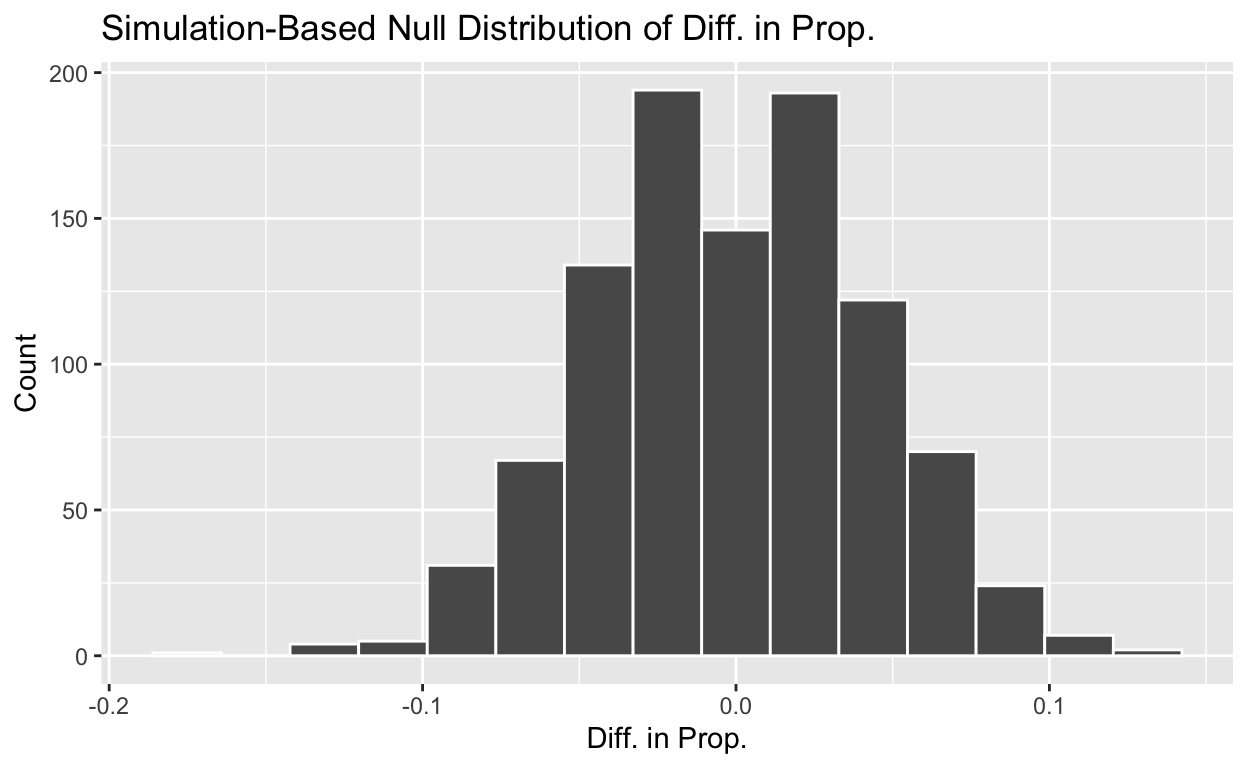
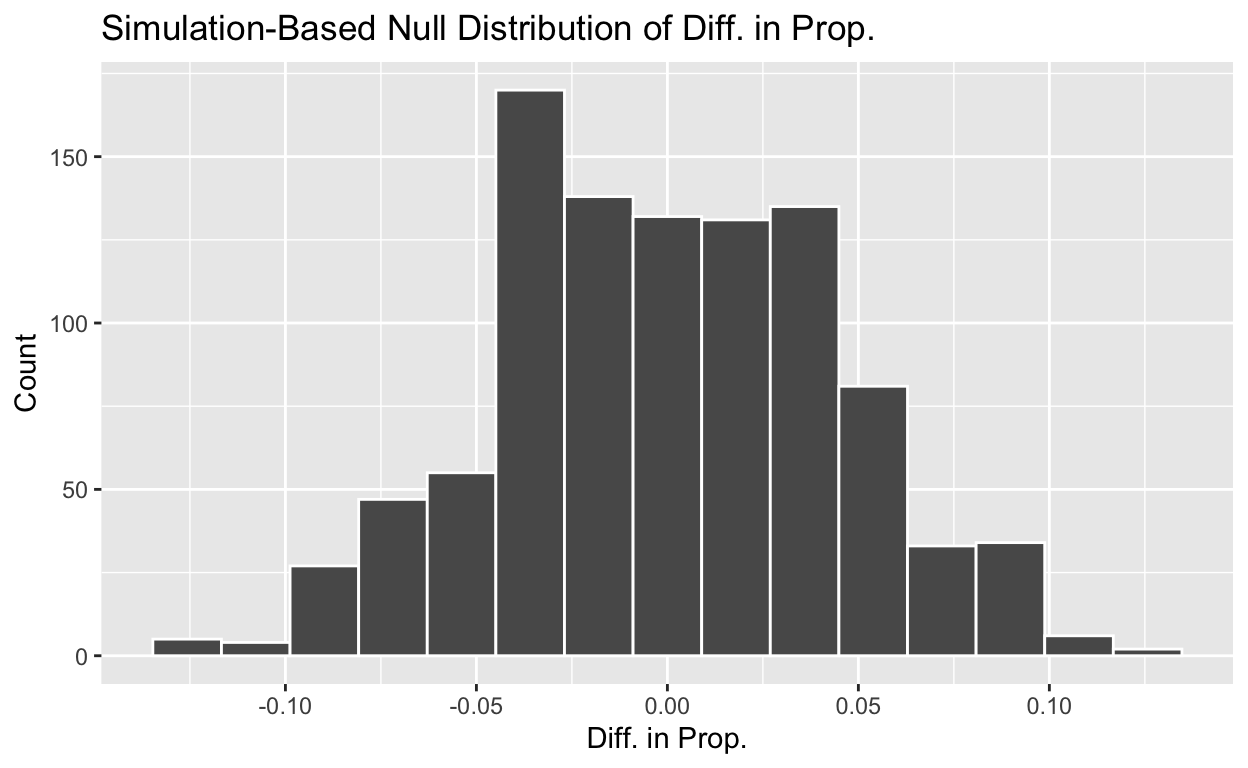
commit

diff --git a/index.html b/index.html
@@ -1519,10 +1519,10 @@ code span.wa { color: #5e5e5e; font-style: italic; } /* Warning */
 </div>
 
 <div class="d-article">
-<h3>Introduction</h3>
+<p>Introduction</p>
 <p>The research question I have set out to answer is whether or not the stance a Republican candidates takes on the results of the 2020 presidential election are related to their electoral success in the 2022 general elections. In other words, is there a statistically significant difference in the proportion of elected Republican candidates based on whether they denied or accepted the results of the 2020 presidential election. My hypothesis is that there is a statistically significant difference in the proportion of Republican candidates that are elected based on their stance on the results of the 2020 presidential election.</p>
 <p>After the 2022 general election, numerous news articles and political pundits talked about the role of denying or accepting the results of the 2020 presidential election on electoral success of a candidate. This question is interesting because the answer to this question could shed light on potential warnings for democracy. If denying the results of the 2020 presidential election turns out to be an influencing factor in electoral success it could encourage future candidates to reject results of fair elections, thereby threatening democracy as it increases misinformation and polarization.</p>
-<h3>Data Section</h3>
+<p>Data Section:</p>
 <p>I obtained most of the data in my imported data set from FiveThirtyEight’s Github repository (<a href="https://github.com/fivethirtyeight/data/tree/master/election-deniers" class="uri">https://github.com/fivethirtyeight/data/tree/master/election-deniers</a>). The key dependent and independent variables I will look at are ‘Won or Lost their Race’ and ‘Stance’. The independent variable is the stance a Republican candidate takes on the 2020 presidential election results. Those stances include “Fully denied”, “Raised questions”, “Accepted with reservations”, “Fully accepted”, “Avoided answering”, and “No comment” which are all self-explanatory. FiveThirtyEight includes the sources for the stances of candidates in the <code>Source</code> variable. This variable is measured through the public responses of these candidates, their actions, and their lack of response to FiveThirtyEight’s survey on their stances. I end up making this a binary variable by condensing these stances into two: Denied or Accepted the results of the 2020 presidential elections for my statistical analysis but I do recognize this is not ideal.</p>
 <p>The key dependent variable is ‘Won or Lost their Race’ and I manually did the research for all 500+ candidates with Ballotpedia. I looked up whether each candidate in the data set was elected or not in the 2022 general elections. I also did the same for ‘Dem or Rep State’ is measured with by what president the state went for in the 2020 presidential election. I used CNN’s 2020 presidential results (<a href="https://www.cnn.com/election/2020/results/president" class="uri">https://www.cnn.com/election/2020/results/president</a>) to find out what president each state went for in 2020. I also added ‘The FiveThirtyEight partisan lean of every state’ (<a href="https://fivethirtyeight.com/features/how-red-or-blue-is-your-state-your-congressional-district/#" class="uri">https://fivethirtyeight.com/features/how-red-or-blue-is-your-state-your-congressional-district/#</a>) as a variable to this data set and it is a continuous variable, with negative values indicating a democratic lean, the smaller the number the greater democratic leaning the state has. Positive values indicated a republican lean with greater numbers indicating a stronger republican lean. I added these variables manually because at the beginning I thought they would be useful for my analysis.</p>
 <p>This study is an observational study because a treatment was not administered, nor was a control group established. I ran a 2 sample permutation test to find whether the difference in proportion of elected Republican candidates was statistically significant based on their stance on the results of the 2020 election.</p>
@@ -1638,11 +1638,12 @@ code span.wa { color: #5e5e5e; font-style: italic; } /* Warning */
 <p><img src="index_files/figure-html5/Data%20Section%20Graphs:%20Summarizing%20the%20Dependent%20Variable-1.png" width="624" /></p>
 </div>
 <p>The results from the mosaic bar charts show a difference in the proportion of Republican election deniers candidates that were elected and not elected. In the elected category, there is a higher proportion of election deniers than in the not elected category which raises concerning signs.</p>
-<h5>2-sample permutation test</h5>
+<p>2-sample permutation test</p>
 <p>I ran a 2-sample permutation test in the chunk below to compare the proportion of Republican candidates in the 2022 general elections who denied versus accepted the results of the 2020 election and their electoral success in the 2022 general election. For the purpose of simplifying the categorical variable Stance, I made it a binary variable where if candidates fully denied they were categorized as having denied the results of the 2020 election and every other option was considered accepting because these candidates did not take action to mark the election as illegitimate even if they might have raised concerns, they overall accepted the results or at the very least did not act in a way or indicate that they would act in a way that would prevent the certification of valid election results.</p>
 <div class="layout-chunk" data-layout="l-body">
 <div class="sourceCode">
 <pre class="sourceCode r"><code class="sourceCode r"><span><span class='co'>#Hypothesis Test (2 Sample Permutation Test with Infer)</span></span>
+<span><span class='fu'><a href='https://rdrr.io/r/base/Random.html'>set.seed</a></span><span class='op'>(</span><span class='fl'>02138</span><span class='op'>)</span></span>
 <span></span>
 <span><span class='co'>#I created election_prop to find the proportion of Republican candidates elected based on their stance (Denied or Accepted) on the results of the 2020 presidential election.</span></span>
 <span><span class='va'>election_prop</span> <span class='op'>&lt;-</span> <span class='va'>election_data</span> <span class='op'>|&gt;</span></span>
@@ -1741,9 +1742,9 @@ code span.wa { color: #5e5e5e; font-style: italic; } /* Warning */
 </tbody>
 </table>
 </div>
-<h4>Results</h4>
-<p>The observed difference in proportion of elected Republican candidates is 0.263513 (denied election - accepted election). The p-value is 0, indicating that the observed difference is statistically significant. Since the p-value is less than alpha = 0.05, there is evidence to reject the null hypothesis that there is no observed difference. It suggests that there is a significant difference in the proportion of elected candidates between the Denied and Accepted stances. However, there are so many confounding variables that could explain this difference in proportion and that’s why I run a linear regression in the next step of analysis.</p>
-<h5>Linear Regression</h5>
+<p>Results</p>
+<p>The observed difference in proportion of elected Republican candidates is 0.263513 (denied election - accepted election). The p-value is approximately 0, indicating that the observed difference is statistically significant. Since the p-value is less than alpha = 0.05, there is evidence to reject the null hypothesis that there is no observed difference. It suggests that there is a significant difference in the proportion of elected candidates between the Denied and Accepted stances. However, there are so many confounding variables that could explain this difference in proportion and that’s why I run a linear regression in the next step of analysis.</p>
+<p>Linear Regression</p>
 <p>In the chunk below, I ran a regression and modeled it with ggplot. Due to the fact that my dependent and independent variable are categorical, I have coded them to be numerical with the mutate function which results in categorical binary independent and dependent variables. 1 for elected, 0 for not elected, 1 for fully denied the election results of 2020 and 0 for accepted the results of the 2020 election. To control for other confounding independent variables in my data set such as the state, incumbency status, office, and what president the state went for in 2020 I added them as variables in my regression model.</p>
 <div class="layout-chunk" data-layout="l-body">
 <div class="sourceCode">
@@ -3133,16 +3134,18 @@ R2 Adj.
 </div>
 <p><img src="index_files/figure-html5/Regression-1.png" width="624" /></p>
 </div>
-<h4>Results</h4>
+<p>Results</p>
 <p>To interpret the results of the linear regression, I will start by interpreting the intercept, 0.295902, this represents the proportion of percent change of having the outcome elected equals 1 or when the republican candidate is elected when all other predictors equal 0 is 29.6%.</p>
 <p>The coefficient of stance is 0.032390. In context, it represents the proportion of percent change of being elected increases by 3.2% when stance increases by 1 which can only be stance = 1 due to the binary nature of this variable in this study. Therefore when a Republican candidate fully denies the election, the percent change of being elected increases by 3.2%.</p>
 <p>The coefficient of PresidentTrump is 0.220995 which means that if the state went for President Trump in 2020, the the percent change of being elected increases by 22.1%.</p>
 <p>The coefficient of incumbencyYes is 66.7% which means that if the candidate is an incumbent, the the percent change of being elected increases by 66.7%.</p>
 <p>All 50 states have different coefficient values, but essentially the coefficient represents the increase or decrease in percent change of being elected in a specific state as a republican candidate. For example, the Illinois coefficient is -0.189270, which means that the percent change of being elected as a republican candidate in Illinois decreases by 18.9%%.</p>
 <p>The coefficients for office have different coefficients based on the office but essentially represent the increase or decrease in percent change of being elected in a specific office as a republican candidate. For example the coefficient of the Senator office is -0.031552 which means that percent change of being elected as a senator as a republican candidate decreases by 3.1%.</p>
-<h3>Conclusion</h3>
-<p>limitations
-[concede that this system is not perfect bc it is the aggregate of the state and we know that states can be politically fragmented with some urban centers being much more liberal than rural place maybe even use IL as an example]</p>
+<p>After running the regression, I see that the p-value of stance whose coefficient is 0.032 is 0.27378 which is greater than the alpha = 0.05 significance level. In other words the estimated effect of the stance variable on the elected variable is not statistically significant. On the other hand the incumbencyYes variable had a coefficient 0.666753 which makes it statistically significant because its p-value is &lt; 0.00000000000002 which is less than alpha = 0.05 significance level, essentially saying that the estimated effect of the incumbency variable on the elected variable is statistically significant. Those were the most significant and relevant findings pertaining to my research question.</p>
+<p>Conclusion</p>
+<p>The research question I have set out to answer is whether or not the stance a Republican candidates takes on the results of the 2020 presidential election are related to their electoral success in the 2022 general elections. My 2-sample permutation test provided statistically significant evidence to suggest that there is a statistically significant difference in the proportion of elected candidates between the Denied and Accepted stances. However, there are other confounding variables to which this statistical significance can be attributed to besides their stance on the results of the 2020 presidential election which is where the linear regression comes into play. There some interesting insights that resulted from the linear regression model but the takeaway is that the estimated effect of the stance variable on the elected variable is not statistically significant but I did find some statistical significance in the incumbency variable which is already a pretty well know fact that incumbents have an advantage in election outcomes.</p>
+<p>Some of the limitations of my analysis is the lack of data on other confounding variables such as the sex, age, and education of the Republican political candidate. In addition, I had to group states by whether or not they went for Trump or Biden in the 2020 presidential election and that is not necessarily reflective of the stance of the entire state. There are some congressional districts within a state that vary in their partisan leanings. For example, Illinois went for Biden in the 2020 presidential election but counties in southern Illinois lean toward Republican candidates whereas the metropolitan Chicago area counties lean toward Democratic candidates. If I had more time and money, I would analyze the state/district partisan leaning in more detail, collect more data on the candidates such as their age, sex, education, etc., and stratify the stance of the Republican candidates into more than 2 categorical outcomes as I did in this investigation.</p>
+<p>Bonus Data Visualizations</p>
 <div class="layout-chunk" data-layout="l-body">
 <div class="sourceCode">
 <pre class="sourceCode r"><code class="sourceCode r"><span><span class='co'>#Bonus Data Visualizations</span></span>
